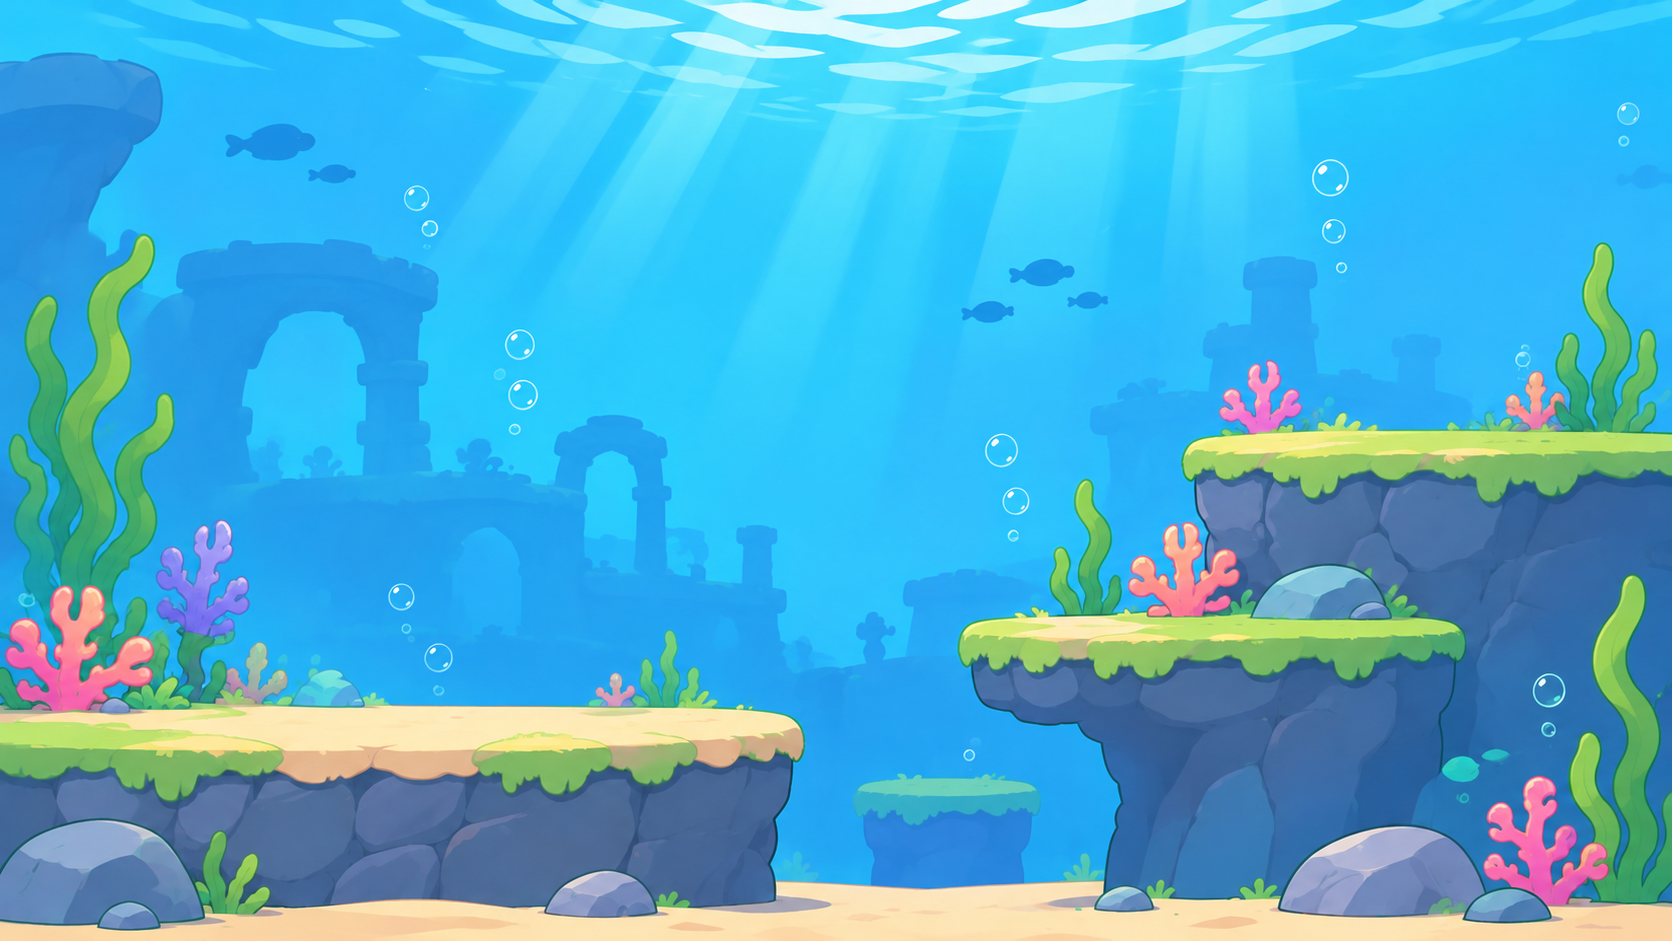
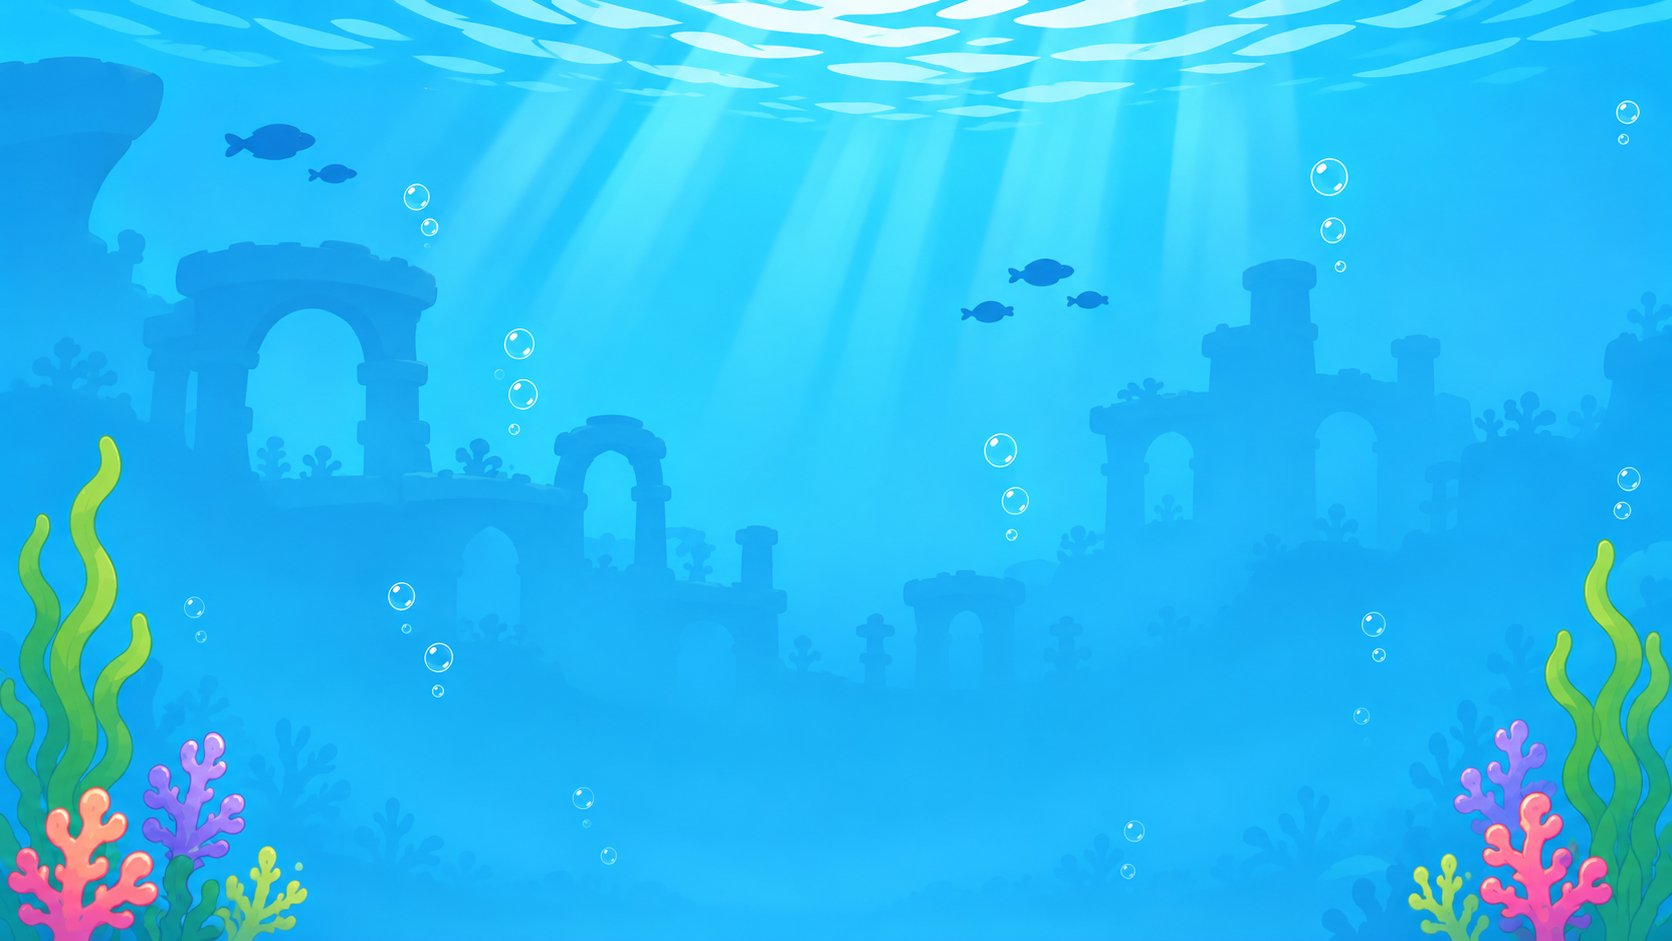
Replace the shared background with the supplied underwater illustration

diff --git a/README.md b/README.md
@@ -75,7 +75,7 @@ node --test game/engine.test.mjs game/audio.test.mjs level-1/engine.test.mjs
 
 ### 美术
 
-角色设定图、五帧动画参考与场景设定图都在 [`assets/`](assets/)；`game/art/` 里的透明精灵和背景是脚本从这些图裁出来的，不是第三方素材。箱子、压板、钥匙等道具目前仍是几何绘制。
+角色设定图、五帧动画参考与场景设定图都在 [`assets/`](assets/)；`game/art/` 里的角色精灵和终点门由 `scripts/build_art.py` 从这些图裁出，背景使用成员提供的海底插画 [`background-underwater`](game/art/background-underwater-24f80eec63d1.png)。箱子、压板、钥匙等道具目前仍是几何绘制。
 
 ### 文档与进度
 
@@ -145,6 +145,6 @@ Covers level validation, fish movement and carrying, crate/plate/key/break-door 
 
 ### Art & credits
 
-Character sheets, five-frame animation references and environment art live in `assets/`. The transparent sprites and backgrounds in `game/art/` are generated from them by `scripts/build_art.py`; no third-party art is bundled. Crates, plates and keys are still drawn as primitives.
+Character sheets, five-frame animation references and environment art live in `assets/`. The character sprites and goal door in `game/art/` are generated from them by `scripts/build_art.py`; the background is an underwater illustration supplied by a team member. No third-party art is bundled. Crates, plates and keys are still drawn as primitives.
 
 The project uses plain ES modules and Canvas 2D with no front-end dependencies; tests use Node's built-in `node:test`. Part of the code, the art-extraction script and the documentation were prepared with an AI coding assistant and reviewed by the team before committing.
